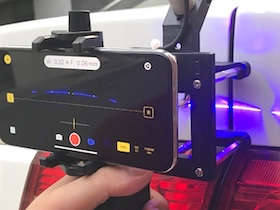
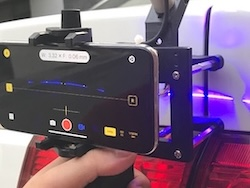
Replace static image with swiper container for dynamic presentation in gap_hcm_2018.md

diff --git a/_projects/gap_hcm_2018.md b/_projects/gap_hcm_2018.md
@@ -13,7 +13,7 @@ related_publications: true
 Accurate measurement of **Gap** (horizontal distance) and **Flush** (vertical displacement) between vehicle body panels is a critical quality control metric in automotive manufacturing. Traditional inspection relies either on expensive, rigid inline robotic arms or high-error manual tools (e.g., taper and dial gauges).
 
 <div class="row justify-content-sm-center">
-    <div class="col-sm-6 mt-3 mt-md-0">
+    <div class="col-sm-4 mt-3 mt-md-0">
         {% include figure.liquid loading="eager" path="assets/img/projects/gap_hcm_2018/gap_flush.gif" title="Gap and Flush Definition" class="img-fluid rounded z-depth-1" %}
     </div>
     <div class="col-sm-3 mt-3 mt-md-0">
@@ -53,14 +53,20 @@ Developed in collaboration with **Hyundai Motor Company (Advanced Manufacturing 
 
 ## Methodology
 
-<div class="row justify-content-sm-center">
-    <div class="col-sm-8 mt-3 mt-md-0">
-        {% include figure.liquid loading="eager" path="assets/img/projects/gap_hcm_2018/figure_workflow.jpg" title="Workflow" class="img-fluid rounded z-depth-1" %}
-    </div>
-</div>
-<div class="caption">
-    Workflow of the real-time Gap and Flush measurement.
-</div>
+<swiper-container keyboard="true" navigation="true" pagination="true" pagination-clickable="true" pagination-dynamic-bullets="true" rewind="true">
+  <swiper-slide>{% include figure.liquid loading="eager" path="assets/img/projects/gap_hcm_2018/slide_17.jpg" class="img-fluid rounded z-depth-1" %}</swiper-slide>
+  <swiper-slide>{% include figure.liquid loading="eager" path="assets/img/projects/gap_hcm_2018/slide_18.jpg" class="img-fluid rounded z-depth-1" %}</swiper-slide>
+  <swiper-slide>{% include figure.liquid loading="eager" path="assets/img/projects/gap_hcm_2018/slide_19.jpg" class="img-fluid rounded z-depth-1" %}</swiper-slide>
+  <swiper-slide>{% include figure.liquid loading="eager" path="assets/img/projects/gap_hcm_2018/slide_20.jpg" class="img-fluid rounded z-depth-1" %}</swiper-slide>
+  <swiper-slide>{% include figure.liquid loading="eager" path="assets/img/projects/gap_hcm_2018/slide_21.jpg" class="img-fluid rounded z-depth-1" %}</swiper-slide>
+  <swiper-slide>{% include figure.liquid loading="eager" path="assets/img/projects/gap_hcm_2018/slide_22.jpg" class="img-fluid rounded z-depth-1" %}</swiper-slide>
+  <swiper-slide>{% include figure.liquid loading="eager" path="assets/img/projects/gap_hcm_2018/slide_23.jpg" class="img-fluid rounded z-depth-1" %}</swiper-slide>
+  <swiper-slide>{% include figure.liquid loading="eager" path="assets/img/projects/gap_hcm_2018/slide_24.jpg" class="img-fluid rounded z-depth-1" %}</swiper-slide>
+  <swiper-slide>{% include figure.liquid loading="eager" path="assets/img/projects/gap_hcm_2018/slide_25.jpg" class="img-fluid rounded z-depth-1" %}</swiper-slide>
+  <swiper-slide>{% include figure.liquid loading="eager" path="assets/img/projects/gap_hcm_2018/slide_26.jpg" class="img-fluid rounded z-depth-1" %}</swiper-slide>
+  <swiper-slide>{% include figure.liquid loading="eager" path="assets/img/projects/gap_hcm_2018/slide_27.jpg" class="img-fluid rounded z-depth-1" %}</swiper-slide>
+  <swiper-slide>{% include figure.liquid loading="eager" path="assets/img/projects/gap_hcm_2018/slide_28.jpg" class="img-fluid rounded z-depth-1" %}</swiper-slide>
+</swiper-container>
 
 The real-time computer vision pipeline runs directly on the mobile device, executing six sequential stages:
 
